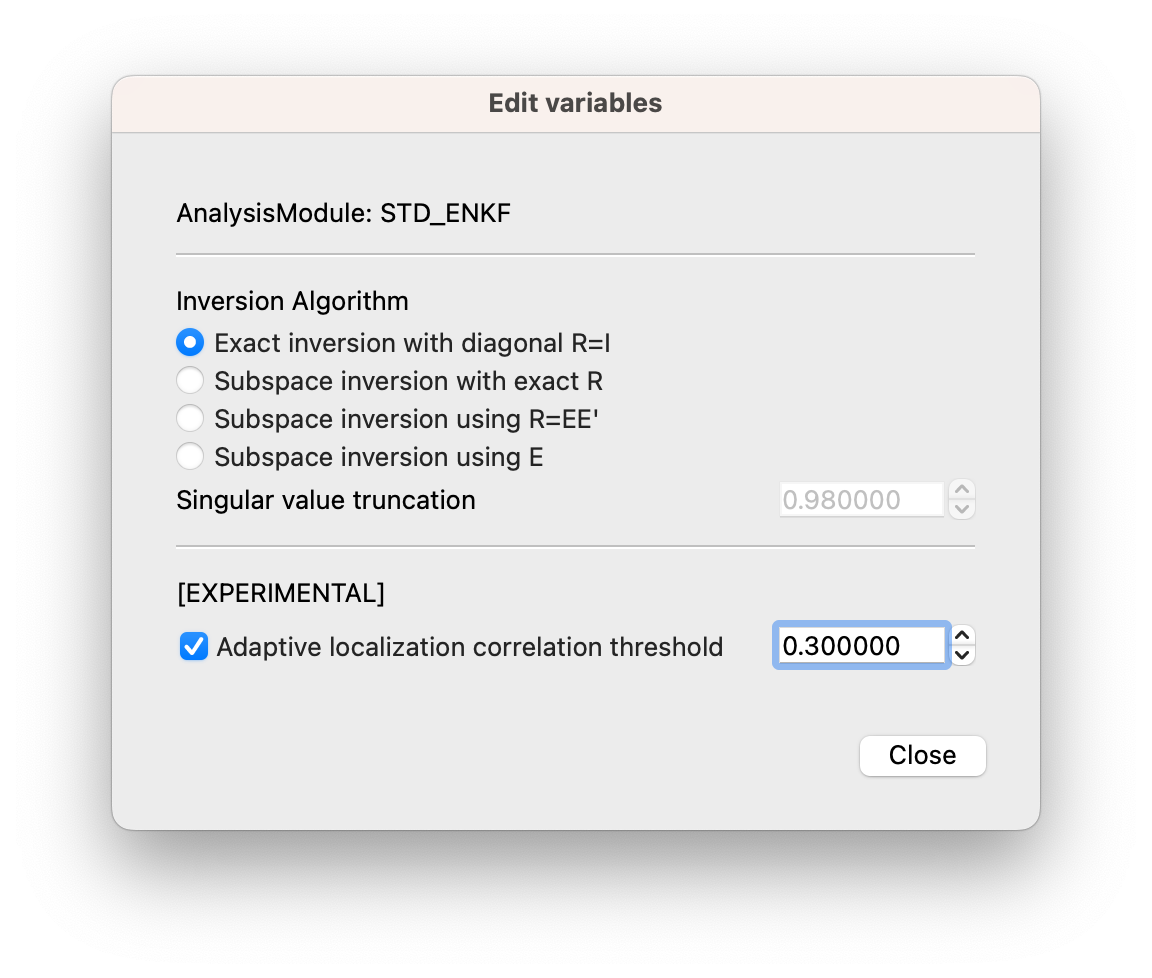
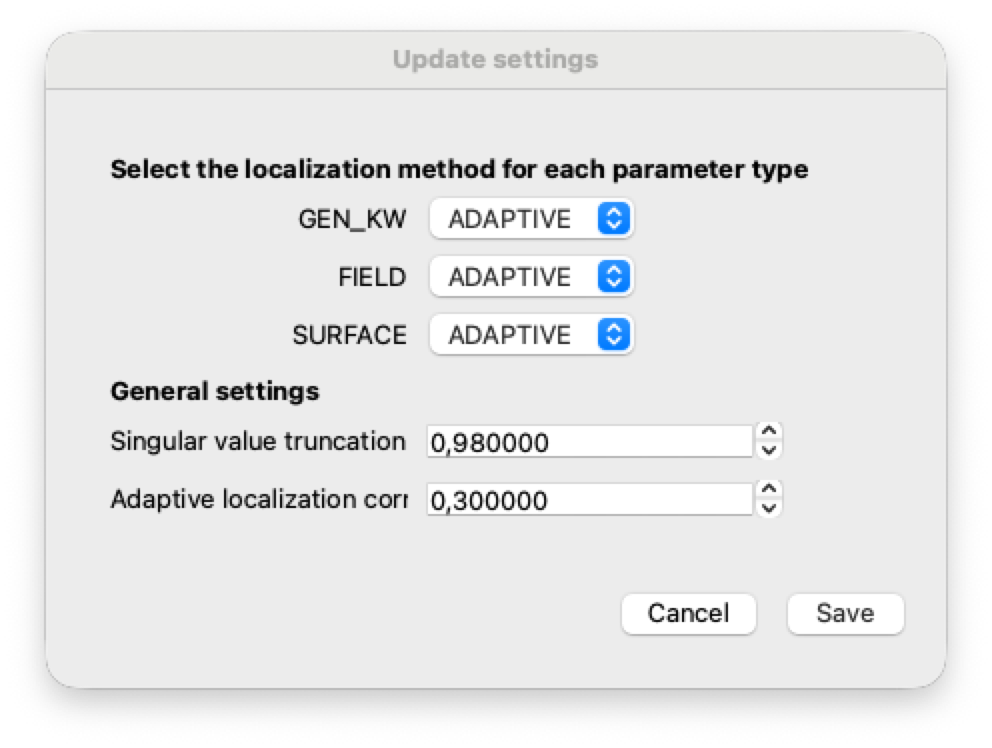
Add deprecation warning to LOCALIZATION

diff --git a/src/ert/config/analysis_config.py b/src/ert/config/analysis_config.py
@@ -131,6 +131,16 @@ class AnalysisConfig:
                 parameter_type_update_strategies["SURFACE"] = LocalizationType.ADAPTIVE
                 parameter_type_update_strategies["GEN_KW"] = LocalizationType.ADAPTIVE
 
+                ConfigWarning.deprecation_warn(
+                    "LOCALIZATION has been removed, and is equivalent to:\n"
+                    "ANALYSIS_SET_VAR PARAMETERS FIELD ADAPTIVE\n"
+                    "ANALYSIS_SET_VAR PARAMETERS GEN_KW ADAPTIVE\n"
+                    "ANALYSIS_SET_VAR PARAMETERS SURFACE ADAPTIVE\n"
+                    "Note that for other parameter types than GEN_KW other localization"
+                    " options are preferred, see: "
+                    "https://ert.readthedocs.io/en/latest/reference/configuration/keywords.html#parameters"
+                )
+
             if module_name == "PARAMETERS":
                 parameter_type = var_name
                 strategy_name = value

diff --git a/docs/ert/reference/configuration/keywords.rst b/docs/ert/reference/configuration/keywords.rst
@@ -40,8 +40,8 @@ Keyword name                                                             Require
 :ref:`JOBNAME <jobname>`                                                 NO                                      <CONFIG_FILE>-<IENS>            Name used for simulation files.
 :ref:`LOAD_WORKFLOW <load_workflow>`                                     NO                                                                      Load a workflow into ERT
 :ref:`LOAD_WORKFLOW_JOB <load_workflow_job>`                             NO                                                                      Load a workflow job into ERT
-:ref:`LOCALIZATION <localization>`                                       NO                                      False                           Enable experimental adaptive localization correlation
-:ref:`LOCALIZATION_CORRELATION_THRESHOLD <local_corr_threshold>`         NO                                      0.30                            Specifying adaptive localization correlation threshold
+:ref:`LOCALIZATION <localization>`                                       NO                                      False                           Enable experimental adaptive localization correlation (Deprecated)
+:ref:`LOCALIZATION_CORRELATION_THRESHOLD <local_corr_threshold>`         NO                                      min(1, 3/sqrt(N))               Specifying adaptive localization correlation threshold
 :ref:`MAX_RUNNING <max_running>`                                         NO                                      0                               Set the maximum number of simultaneously submitted and running realizations a positive integer (> 0) is required
 :ref:`MAX_RUNTIME <max_runtime>`                                         NO                                      0                               Set the maximum runtime in seconds for a realization (0 means no runtime limit)
 :ref:`MAX_SUBMIT <max_submit>`                                           NO                                      2                               How many times the queue system should retry a simulation
@@ -1796,7 +1796,7 @@ ANALYSIS_SET_VAR keyword for the `STD_ENKF` module.
 
 .. _inversion_algorithm:
 
-INVERSION (deprecated)
+INVERSION (Deprecated)
 ^^^^^^^^^^^^^^^^^^^^^^
 
 Specifies the inversion algorithm used in the analysis step.
@@ -1817,18 +1817,22 @@ truncation threshold (see :ref:`ENKF_TRUNCATION <enkf_truncation>`)::
 
 .. _localization:
 
-LOCALIZATION
-^^^^^^^^^^^^
-
-The analysis module has capability for enabling adaptive localization
-correlation threshold.
-This can be enabled from the config file using the
-ANALYSIS_SET_VAR keyword but is valid for the ``STD_ENKF`` module only.
-This is default ``False``.
+LOCALIZATION (Deprecated)
+^^^^^^^^^^^^^^^^^^^^^^^^^
+Replaced by parameter type adaptive localization specification.
+(see :ref:`ANALYSIS_SET_VAR <parameters_section>`)
 
 ::
 
         ANALYSIS_SET_VAR STD_ENKF LOCALIZATION True
+
+        Is replaced by:
+
+        ANALYSIS_SET_VAR PARAMETERS FIELD ADAPTIVE
+        ANALYSIS_SET_VAR PARAMETERS GEN_KW ADAPTIVE
+        ANALYSIS_SET_VAR PARAMETERS SURFACE ADAPTIVE
+
+
 
 .. _local_corr_threshold:
 
@@ -1839,7 +1843,7 @@ The analysis module has capability for specifying the adaptive
 localization correlation threshold value.
 This can be specified from the config file using the
 ANALYSIS_SET_VAR keyword but is valid for the ``STD_ENKF`` module only.
-This is default ``0.30``.
+This is default ``min(1, 3/sqrt(N))``.
 
 ::
 
